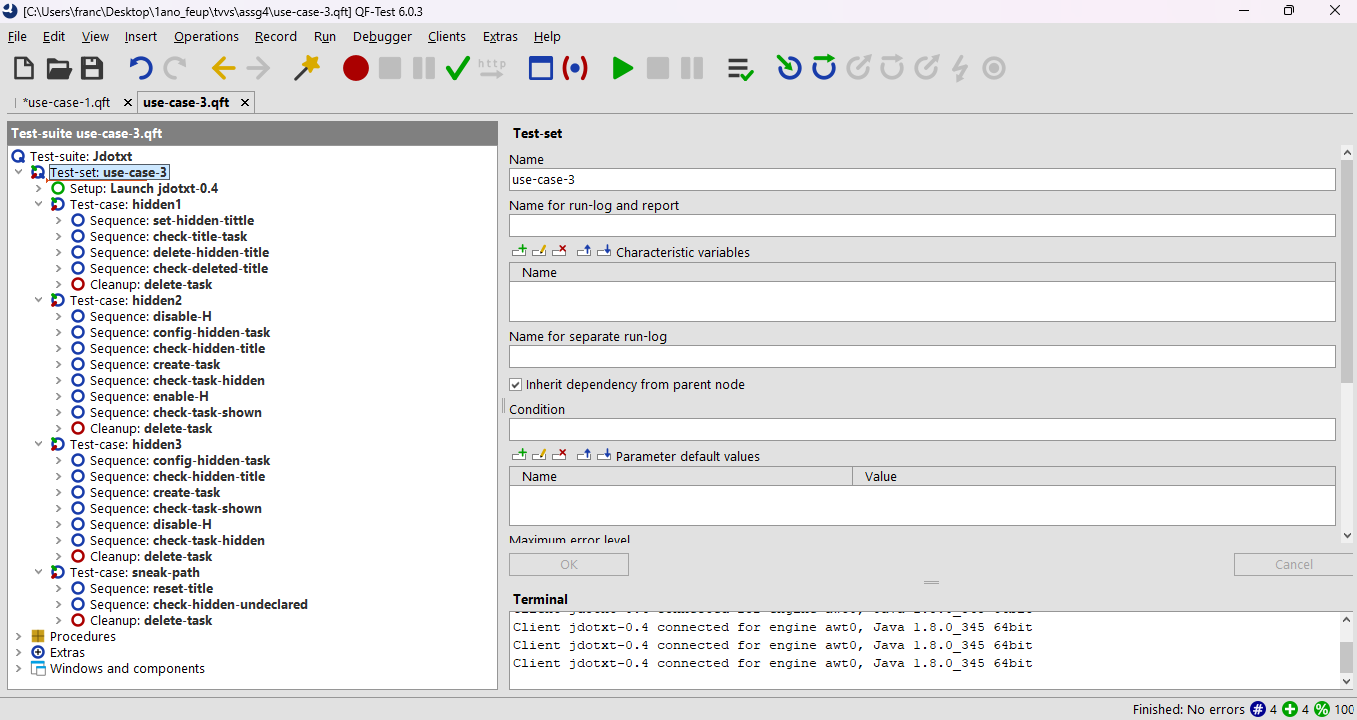
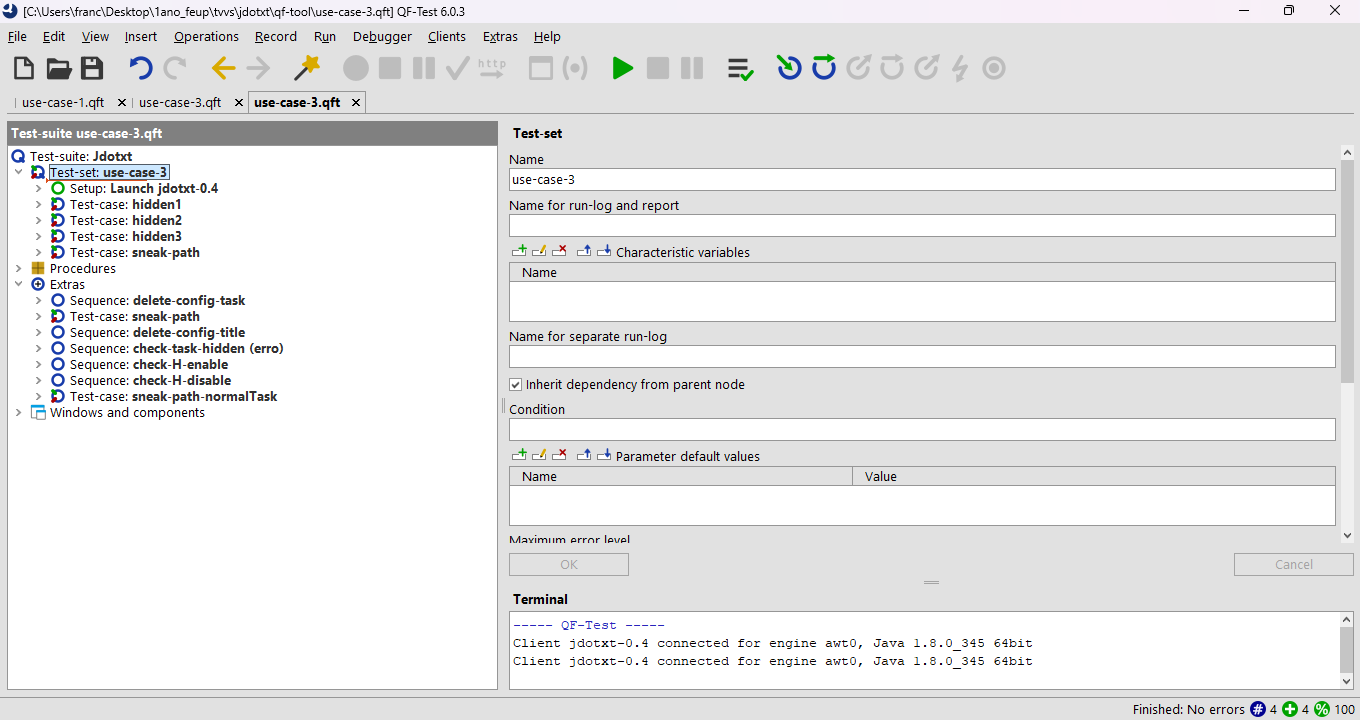
3 case changes

diff --git a/reports/assignment#04.md b/reports/assignment#04.md
@@ -339,9 +339,10 @@ The third use cases focus on a specific feature of the Jdotxt App. This feature 
 		<tr>
 			<td>sneak-path</td>
 			<td>
-			Sneak path: delete hidden while <i>Configuring</i> and keep in the same state. <br/>
-			- Delete hidden of configuring task <br/>
-			- Check that task doesn't have hiiden tag set <br/>
+			Sneak path: enable/disable "H" button while <i>Configuring</i> and keep on the same state. <br/>
+			- Enable "H" button <br/>
+			- Disable "H" button <br/>
+			- Check that no new task appeared <br/>
 			- Cleanup: reset task
 			</td>
 		</tr>
